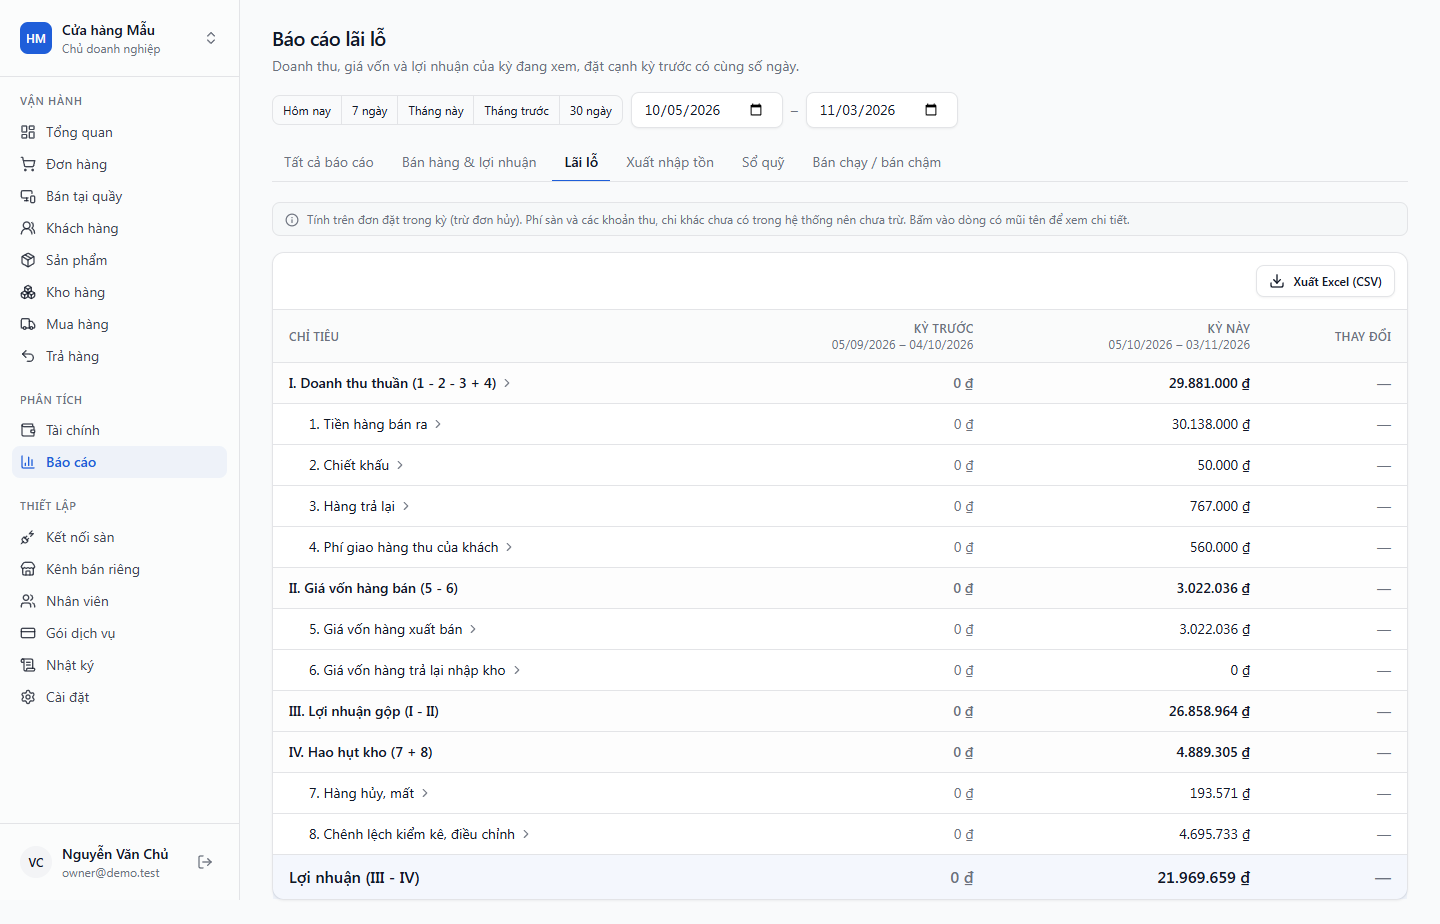
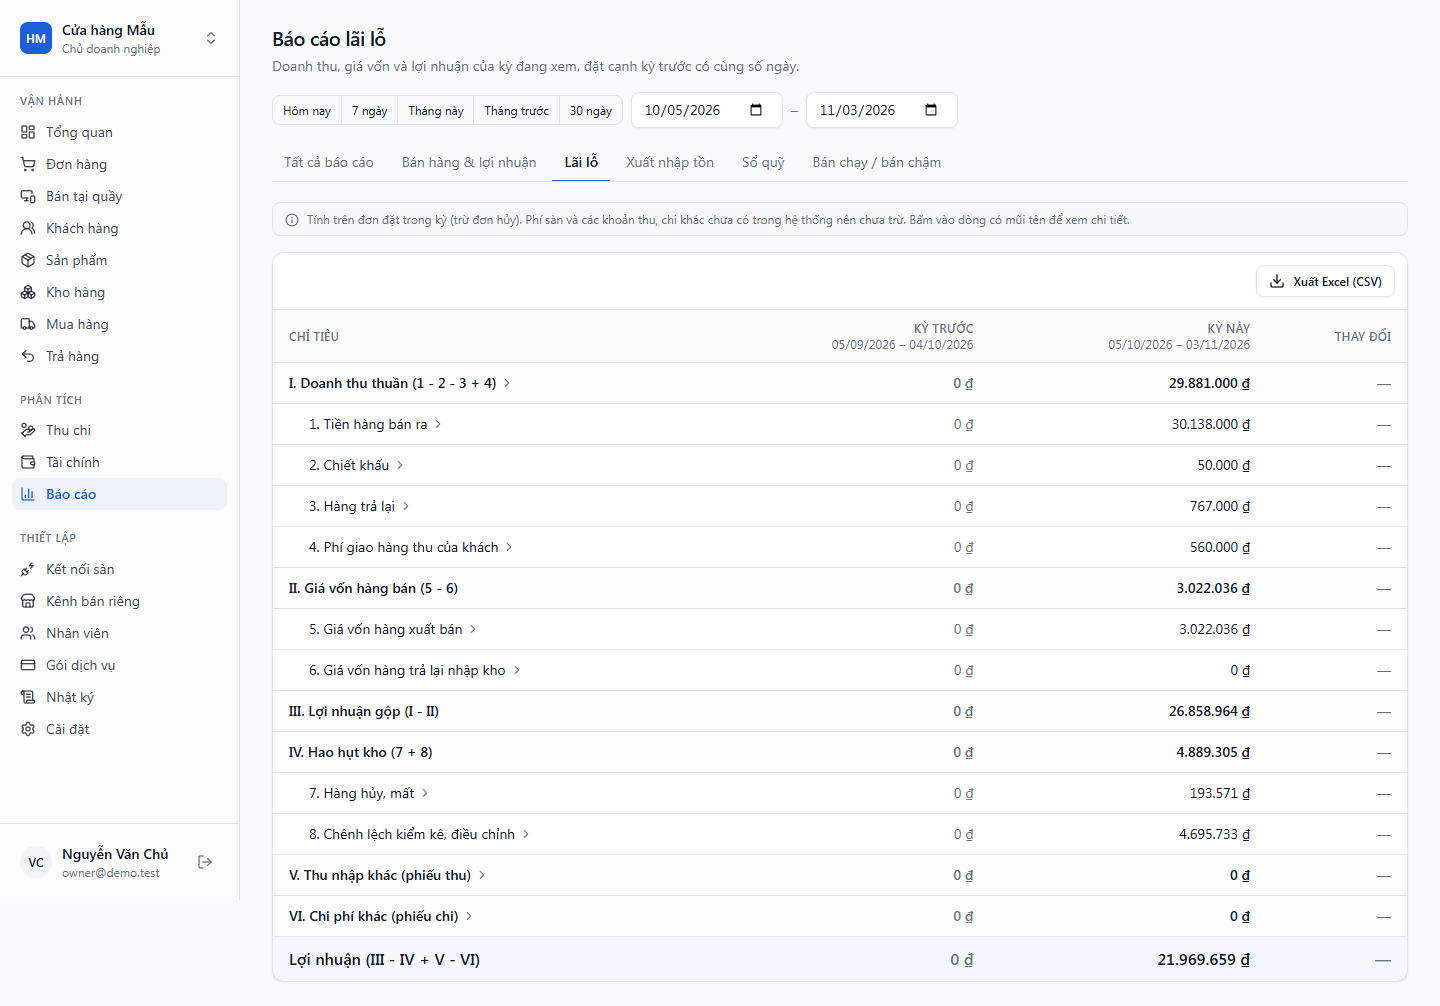
Cashbook: other income and expenses in the profit and loss report

diff --git a/resources/js/apps/tenant/pages/reports/ProfitLoss.vue b/resources/js/apps/tenant/pages/reports/ProfitLoss.vue
@@ -31,12 +31,13 @@ interface PlData {
 }
 
 /** Lines whose increase is bad news: the change badge is red when they go up. */
-const COSTS = ['discount', 'returns', 'cogs', 'cogs_out', 'stock_loss', 'write_off', 'stocktake'];
+const COSTS = ['discount', 'returns', 'cogs', 'cogs_out', 'stock_loss', 'write_off', 'stocktake', 'other_expenses'];
 const DRILL: Record<string, { name: string; params?: Record<string, string>; query?: Record<string, string> }> = {
     sales: { name: 'report-sales' },
     products: { name: 'report-detail', params: { report: 'product-sales' } },
     returns: { name: 'report-detail', params: { report: 'returns' } },
     stock: { name: 'report-stock' },
+    cash: { name: 'cash' },
 };
 
 const { range } = useReportQuery();

diff --git a/app/Modules/Analytics/Services/LedgerReports.php b/app/Modules/Analytics/Services/LedgerReports.php
@@ -17,8 +17,9 @@ class LedgerReports
     /**
      * Profit and loss for the range and for the period of the same length just before it. Revenue is goods sold on
      * orders placed in the period (cancelled ones excluded) less returns opened in the period; cost of goods is the
-     * ledger cost captured at shipping less the cost of goods put back on the shelf from returns. Marketplace fees
-     * and other income and expenses are not in the system yet, so they are not here.
+     * ledger cost captured at shipping less the cost of goods put back on the shelf from returns. Other income and
+     * expenses are the receipt and payment vouchers whose type counts in profit and loss. Marketplace fees are not in
+     * the system yet, so they are not here.
      *
      * @return array<string, mixed>
      */
@@ -44,7 +45,9 @@ class LedgerReports
             ['stock_loss', 'IV. Hao hụt kho (7 + 8)', 0, null],
             ['write_off', '7. Hàng hủy, mất', 1, 'stock'],
             ['stocktake', '8. Chênh lệch kiểm kê, điều chỉnh', 1, 'stock'],
-            ['profit', 'Lợi nhuận (III - IV)', 0, null],
+            ['other_income', 'V. Thu nhập khác (phiếu thu)', 0, 'cash'],
+            ['other_expenses', 'VI. Chi phí khác (phiếu chi)', 0, 'cash'],
+            ['profit', 'Lợi nhuận (III - IV + V - VI)', 0, null],
         ];
 
         return [
@@ -138,6 +141,10 @@ class LedgerReports
         $writeOff = -$value(BusinessReports::STOCK_COLUMNS['damage_out']) - $value(['ADJUSTMENT_OUT'], $writeOffReasons);
         $stocktake = -$value(['ADJUSTMENT_OUT'], "(m.reason IS NULL OR NOT {$writeOffReasons})") - $value(BusinessReports::STOCK_COLUMNS['adjust_in']);
 
+        $other = DB::table('cash_vouchers')->where('tenant_id', $this->tenant())->whereNull('voided_at')->where('counts_in_pnl', true)->whereBetween('paid_at', [$from, $to])
+            ->selectRaw("COALESCE(SUM(CASE WHEN direction = 'receipt' THEN amount ELSE 0 END), 0) as income, COALESCE(SUM(CASE WHEN direction = 'payment' THEN amount ELSE 0 END), 0) as expenses")
+            ->first();
+
         $p = [
             'goods' => (float) $orders->goods,
             'discount' => (float) $orders->discount,
@@ -147,12 +154,14 @@ class LedgerReports
             'cogs_back' => $cogsBack,
             'write_off' => $writeOff,
             'stocktake' => $stocktake,
+            'other_income' => (float) $other->income,
+            'other_expenses' => (float) $other->expenses,
         ];
         $p['revenue'] = $p['goods'] - $p['discount'] - $p['returns'] + $p['shipping'];
         $p['cogs'] = $p['cogs_out'] - $p['cogs_back'];
         $p['gross_profit'] = $p['revenue'] - $p['cogs'];
         $p['stock_loss'] = $p['write_off'] + $p['stocktake'];
-        $p['profit'] = $p['gross_profit'] - $p['stock_loss'];
+        $p['profit'] = $p['gross_profit'] - $p['stock_loss'] + $p['other_income'] - $p['other_expenses'];
 
         // + 0.0 turns a negated zero (-0) into 0 so it never shows as "-0 đ".
         return [...array_map(fn ($v) => round($v, 2) + 0.0, $p), 'missing_cost_lines' => (int) $cost->missing];

diff --git a/tests/Feature/Cashbook/CashVoucherTest.php b/tests/Feature/Cashbook/CashVoucherTest.php
@@ -87,6 +87,10 @@ it('records receipt and payment vouchers, lists them with automatic ones and voi
         ->and(collect($book['rows'])->firstWhere('type', 'voucher')['document']['number'])->not->toBeNull();
     $finance = actingInTenant($owner, $tenant)->getJson('/api/v1/finance/summary')->assertOk()->json('data');
     expect($finance['other_income'])->toEqual(30000)->and($finance['other_expenses'])->toEqual(1000000);
+    $pl = collect(actingInTenant($owner, $tenant)->getJson('/api/v1/reports/profit-loss')->assertOk()->json('data.lines'))->keyBy('key');
+    expect($pl['other_income']['current'])->toEqual(30000)
+        ->and($pl['other_expenses']['current'])->toEqual(1000000)
+        ->and($pl['profit']['current'])->toEqual($pl['gross_profit']['current'] - $pl['stock_loss']['current'] + 30000 - 1000000);
 
     actingInTenant($owner, $tenant)->postJson("/api/v1/cash-vouchers/{$first['id']}/void", [])->assertUnprocessable();
     actingInTenant($owner, $tenant)->postJson("/api/v1/cash-vouchers/{$first['id']}/void", ['reason' => 'Nhập nhầm'])

diff --git a/docs/PHASE-18-REPORT.md b/docs/PHASE-18-REPORT.md
@@ -20,6 +20,7 @@
 - **Loại phiếu** (`/cash/types`): mỗi doanh nghiệp có sẵn 15 loại mặc định, thêm, đổi tên hoặc ngừng dùng được. Mỗi loại có mặc định "Tính KQKD". Riêng góp vốn và rút vốn mặc định không tính.
 - **Sổ quỹ** có thêm phiếu thu chi lập tay, tab Thu/Chi, ô tìm kiếm, bảng giải thích thuật ngữ và nút sang lập phiếu.
 - **Tài chính**: thêm thẻ "Lợi nhuận sau thu chi khác", bằng lãi gộp cộng phiếu thu trừ phiếu chi có tính KQKD. Thẻ ẩn khi lọc theo một gian hàng.
+- **Báo cáo lãi lỗ** (`/reports/profit-loss`): thêm dòng "V. Thu nhập khác" và "VI. Chi phí khác" lấy từ phiếu có tính KQKD, bấm vào để mở danh sách phiếu.
 
 ## Thay đổi CSDL
 - Bảng mới `cash_voucher_types`, `cash_vouchers`. Không sửa bảng cũ.
